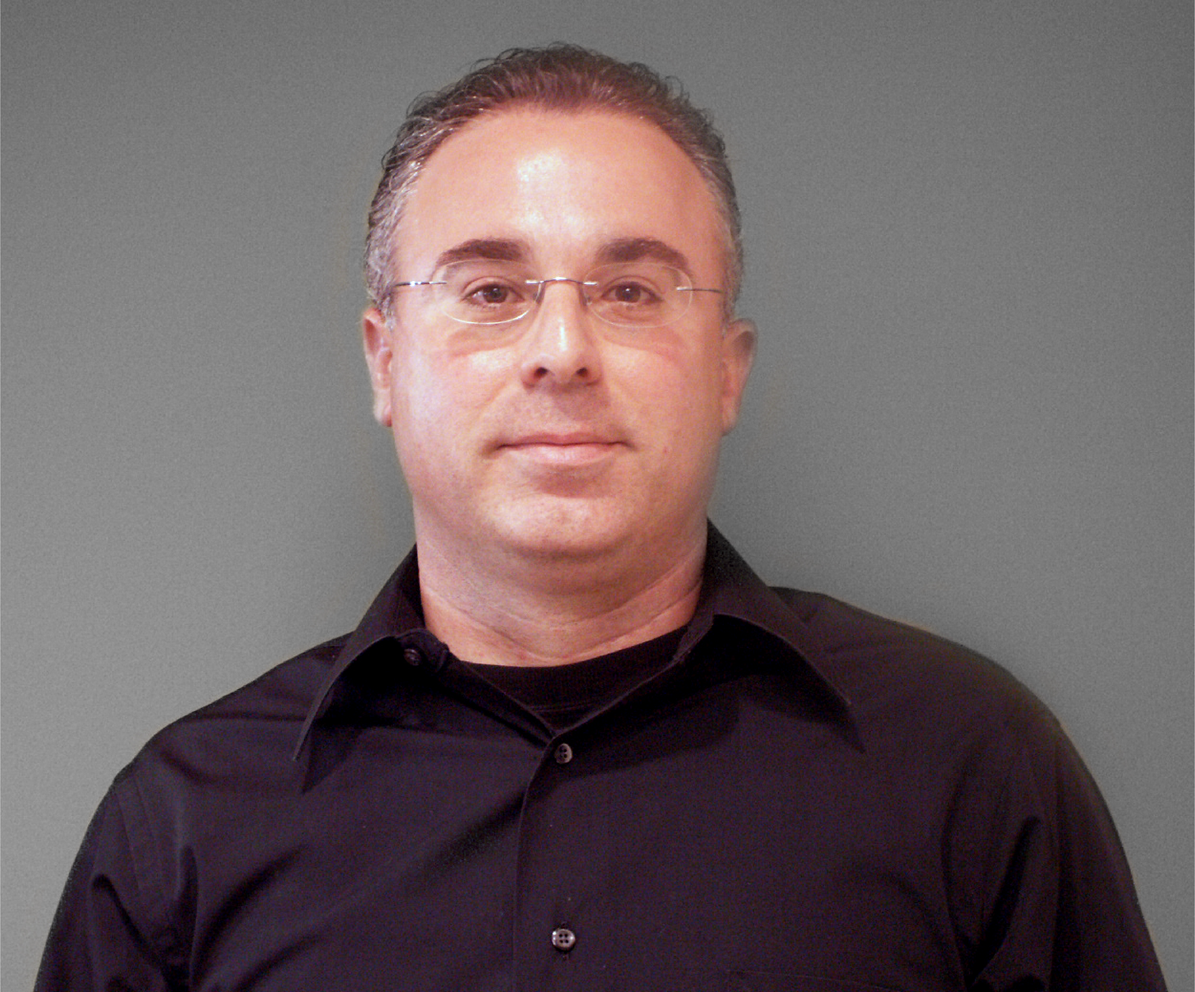
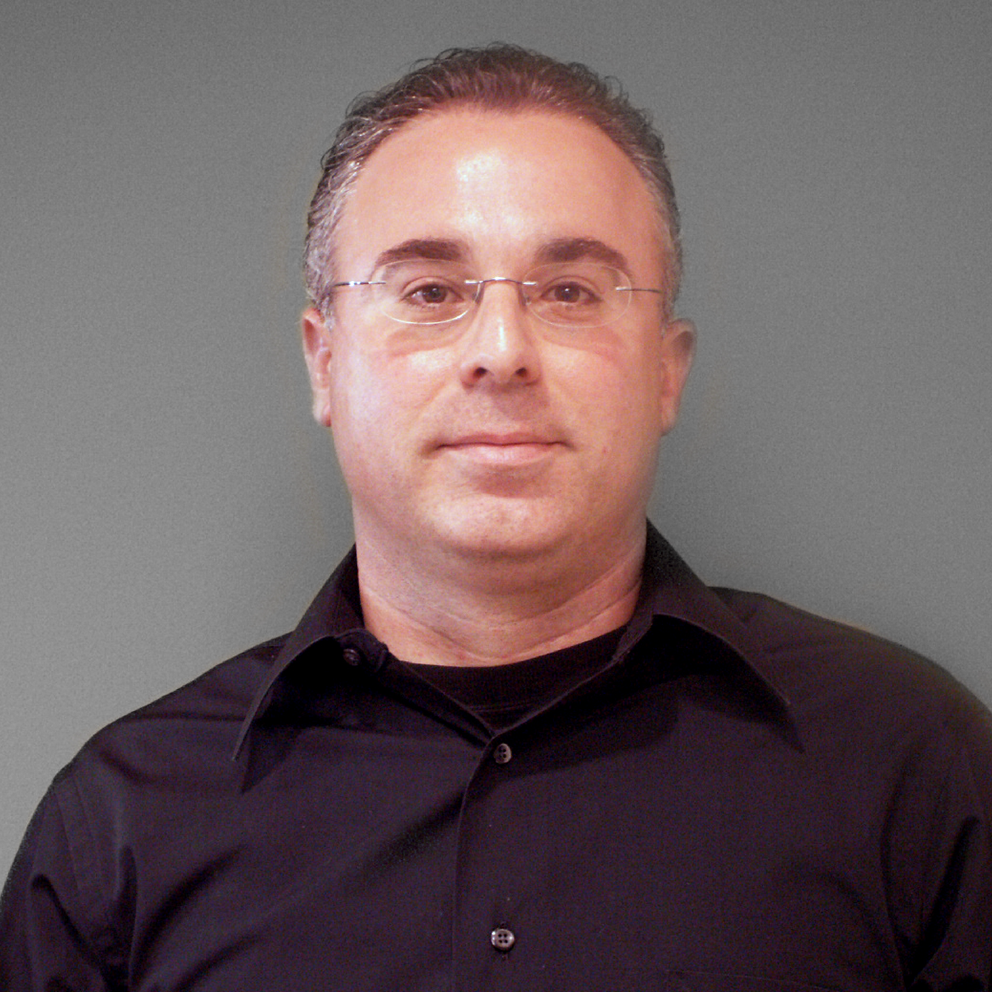
resize pictures

Changed region(s): [[0.0, 0.0, 1.0, 1.0]]

diff --git a/index.md b/index.md
@@ -112,7 +112,7 @@ Our objective is to address the data center networking and the supercomputing co
         <img src="{{ '/assets/img/GiladShainer.png' | relative_url }}" alt="Gilad Shainer" style="width:250px; height:auto;">
       </td>
       <td style="width:50%; text-align:center; padding:10px; border:none;">
-        <img src="{{ '/assets/img/Omar_Headshot.jpg' | relative_url }}" alt="Omar Baldonado" style="width:210px; height:auto;">
+        <img src="{{ '/assets/img/Omar_Headshot.jpg' | relative_url }}" alt="Omar Baldonado" style="width:250px; height:auto;">
       </td>
     </tr>
     <!-- Row: names -->

diff --git a/highlights.md b/highlights.md
@@ -25,7 +25,7 @@
         <img src="{{ '/assets/img/GiladShainer.png' | relative_url }}" alt="Gilad Shainer" style="width:250px; height:auto;">
       </td>
       <td style="width:50%; text-align:center; padding:10px; border:none;">
-        <img src="{{ '/assets/img/Omar_Headshot.jpg' | relative_url }}" alt="Omar Baldonado" style="width:210px; height:auto;">
+        <img src="{{ '/assets/img/Omar_Headshot.jpg' | relative_url }}" alt="Omar Baldonado" style="width:250px; height:auto;">
       </td>
     </tr>
     <!-- Row: names -->
